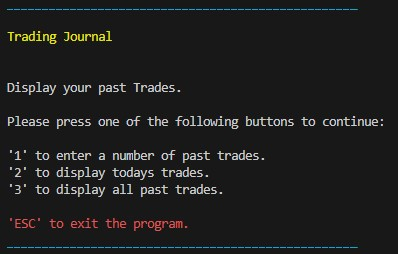
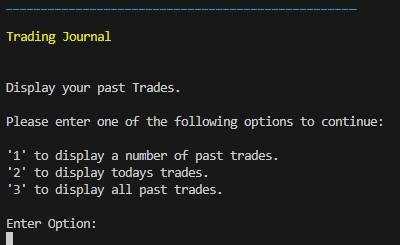
docs: Update outdated images with new ones in README.md

diff --git a/README.md b/README.md
@@ -78,17 +78,18 @@ uses minimal resource, making it exceptionally resource-efficient.
 **Display Trading Statistics**  
 ![display trading statistics](media/readme-images/trading-statistics.jpg)
 
-### **Input**
+### **Trading Journal Input**
 
 + Inputs can only be made with the keyboard.
 + Input is validated wherever an input can be made, so that it fits the google sheet.
 + Input validation testing can be seen in the testing section.
-+ Example images of input and input validation can be seen here.
 
 **Input for dates**
-+ Input validation only accepts todays or a past date and only a specific format.  
++ First, the user can decide if they want to push the current date or enter a date manually.
 
-![date wrong input](media/readme-images/enter-date-wrong-input.jpg)
+![enter date option](media/readme-images/trading-journal-input.jpg)
+
++ When users opt to manually enter a date, the program enforces a specific date format to ensure data consistency. Upon successful entry in the correct format, a green-colored confirmation message will be displayed, indicating that the date input was successful.
 
 ![date correct input](media/readme-images/enter-date-correct-input.jpg)
 
@@ -96,21 +97,15 @@ uses minimal resource, making it exceptionally resource-efficient.
 + Input only accepts 1 - 4  letters.
 + Letters will be converted to uppercase after input.  
 
-![stcok ticker wrong input](media/readme-images/stock-ticker-wrong-input.jpg)
-
 ![stock ticker correct input](media/readme-images/stock-ticker-correct-input.jpg)
 
 **Input for Shares Amount**
 + Input only accepts positive numbers.  
 
-![shares amount wrong input](media/readme-images/shares-amount-wrong-input.jpg)
-
 ![shares amount correct input](media/readme-images/shares-amount-correct-input.jpg)
 
 **Input Prices**
 + Input only accepts numbers with 2 decimals for both entry and exit price.  
-
-![entry and exit price wrong input](media/readme-images/entry-exit-price-wrong-input.jpg)
 
 ![entry and exit price correct input](media/readme-images/entry-exit-price-correct-input.jpg)
 
